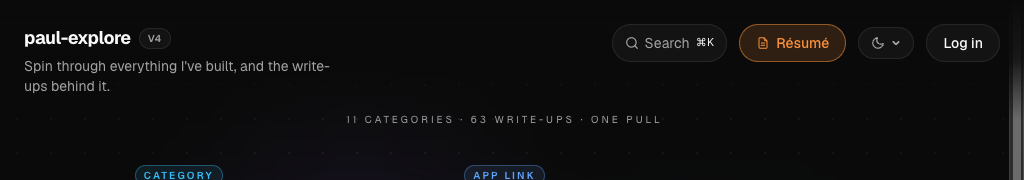
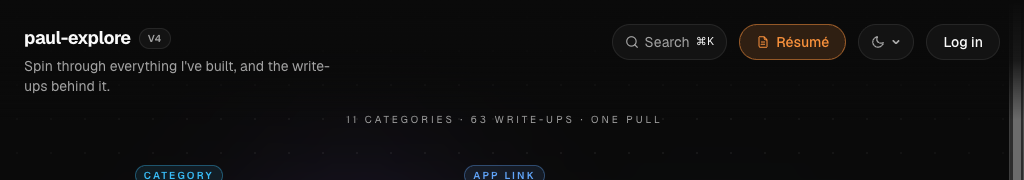
Pin an explicit h-9 on the header pills
Same padding produced different heights: icon-only pills sized from
their 14px icons while text pills sized from a 20px text line. The
uniform height has to be explicit, so all four controls get h-9 and
drop the vertical padding. Screenshots refreshed.

diff --git a/src/app/v4/SlotMachine.tsx b/src/app/v4/SlotMachine.tsx
@@ -55,7 +55,7 @@ function ResumeLink() {
   return (
     <Link
       href="/resume"
-      className="inline-flex items-center gap-1.5 rounded-full border px-4 py-2 text-sm font-medium backdrop-blur-sm transition-colors focus-visible:outline-none focus-visible:ring-2 focus-visible:ring-foreground/60"
+      className="inline-flex h-9 items-center gap-1.5 rounded-full border px-4 text-sm font-medium backdrop-blur-sm transition-colors focus-visible:outline-none focus-visible:ring-2 focus-visible:ring-foreground/60"
       style={{
         borderColor: `color-mix(in srgb, ${RESUME_ACCENT} 50%, transparent)`,
         backgroundColor: `color-mix(in srgb, ${RESUME_ACCENT} 15%, transparent)`,
@@ -90,7 +90,7 @@ function SearchHint() {
       onClick={openCommandPalette}
       aria-label="Search pages, dev notes, and actions"
       aria-haspopup="dialog"
-      className="inline-flex items-center gap-1.5 rounded-full border border-border bg-surface/70 px-3 py-2 text-sm text-muted backdrop-blur-sm transition-colors hover:text-foreground focus-visible:outline-none focus-visible:ring-2 focus-visible:ring-foreground/60"
+      className="inline-flex h-9 items-center gap-1.5 rounded-full border border-border bg-surface/70 px-3 text-sm text-muted backdrop-blur-sm transition-colors hover:text-foreground focus-visible:outline-none focus-visible:ring-2 focus-visible:ring-foreground/60"
     >
       <svg
         width="14"

diff --git a/src/app/v4/LandingActions.tsx b/src/app/v4/LandingActions.tsx
@@ -9,7 +9,7 @@ import HeaderMenu from "@/components/HeaderMenu";
  * read as one set.
  */
 const PILL =
-  "rounded-full border border-border bg-surface/70 backdrop-blur-sm text-sm transition-colors focus-visible:outline-none focus-visible:ring-2 focus-visible:ring-foreground/60";
+  "h-9 rounded-full border border-border bg-surface/70 backdrop-blur-sm text-sm transition-colors focus-visible:outline-none focus-visible:ring-2 focus-visible:ring-foreground/60";
 
 /**
  * The v4 landing's top-right controls: the shared settings menu (theme picker
@@ -24,11 +24,11 @@ export default function LandingActions({ loggedIn }: { loggedIn: boolean }) {
       <HeaderMenu
         showSettings
         showLogout={false}
-        triggerClassName={`flex items-center gap-1.5 px-3 py-2 text-muted hover:text-foreground ${PILL}`}
+        triggerClassName={`flex items-center gap-1.5 px-3 text-muted hover:text-foreground ${PILL}`}
       />
       <AuthButton
         loggedIn={loggedIn}
-        className={`inline-flex items-center px-4 py-2 font-medium text-foreground hover:bg-surface-raised ${PILL}`}
+        className={`inline-flex items-center px-4 font-medium text-foreground hover:bg-surface-raised ${PILL}`}
       />
     </div>
   );

diff --git a/src/app/v4/LandingActions.test.tsx b/src/app/v4/LandingActions.test.tsx
@@ -68,6 +68,9 @@ describe("LandingActions", () => {
       expect(el.className).toContain("rounded-full");
       expect(el.className).toContain("border-border");
       expect(el.className).toContain("bg-surface/70");
+      // Content height differs between icon-only and text pills, so the
+      // uniform height has to be explicit, not derived from padding.
+      expect(el.className).toContain("h-9");
     }
   });
 });
